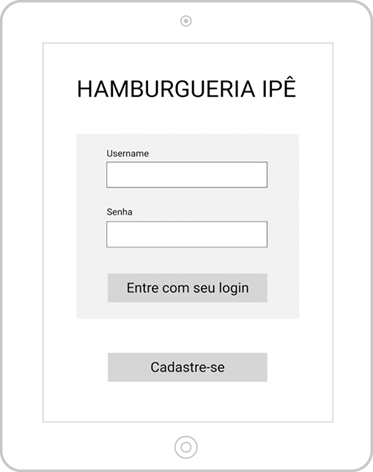
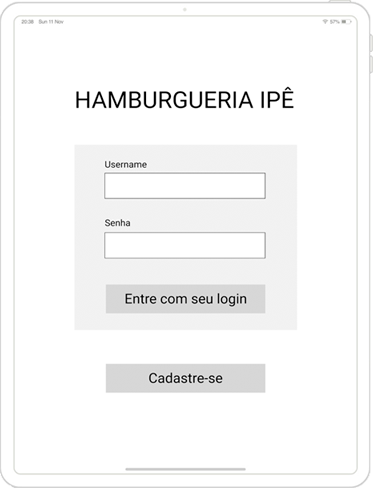
Novas imagens para o Wireframe de Média fidelidade e correções na sessão da tipografia

diff --git a/README.md b/README.md
@@ -164,9 +164,9 @@ Dessa forma, definimos:
 🔰 Com as respostas dos usuários, conseguimos desenvolver e testar o protótipo de média fidelidade, que pode ser acessado [clicando aqui](https://www.figma.com/proto/5rVNETEzDOLBWddlkh2iUo/Hamburgueria-Ip%C3%AA?node-id=1%3A2&scaling=min-zoom).
 
   <p align="center">
-    <img src="app/src/images/readme/ipad-media-login-vazio.png"></img> <img src="app/src/images/readme/ipad-media-cadastro.png"></img>
+    <img alt='Wireframe - Login Vazio' src="app/src/images/readme/ipad-media-login-vazio.png"  width='250'height='350'></img> <img alt='Wireframe - Cadastro' src="app/src/images/readme/ipad-media-cadastro.png" width='250'height='350'></img>
     <br/>
-    <img src="app/src/images/readme/ipad-media-cliente.png"></img> <img src="app/src/images/readme/ipad-media-pedido.png"></img>
+    <img alt='Wireframe - Mesas do Salão' src="app/src/images/readme/ipad-media-mesas.png" width='250'height='350'></img> <img alt='Wireframe - Pedidos' src="app/src/images/readme/ipad-media-pedido.png"  width='250'height='350'></img>
     
 🔎 *Clique nas imagens para ampliar*
   </p> 
@@ -190,6 +190,7 @@ Fizemos entrevistas com os usuários para alcançarmos tons que entregassem a me
 ✒ Testamos e escolhemos três fontes para serem utilizadas na aplicação e em todos os meios de comunicação, como banners, *posts* em redes sociais, cartazes, etc.
 
 **Tipografia principal**
+
 A fonte [Playfair Display](https://fonts.google.com/specimen/Playfair+Display?preview.text_type=custom&preview.text=Playfar%20Display) é utilizada no logo e em títulos de páginas:
 
 <p align='center'>
@@ -197,6 +198,7 @@ A fonte [Playfair Display](https://fonts.google.com/specimen/Playfair+Display?pr
 </p>
 
 **Tipografia de apoio**
+
 A fonte [Work Sans](https://fonts.google.com/specimen/Work+Sans?preview.text_type=custom&preview.text=Work%20Sans%20Regular#standard-styles) é utilizada em todo o corpo da aplicação
 
 <p align='center'>
